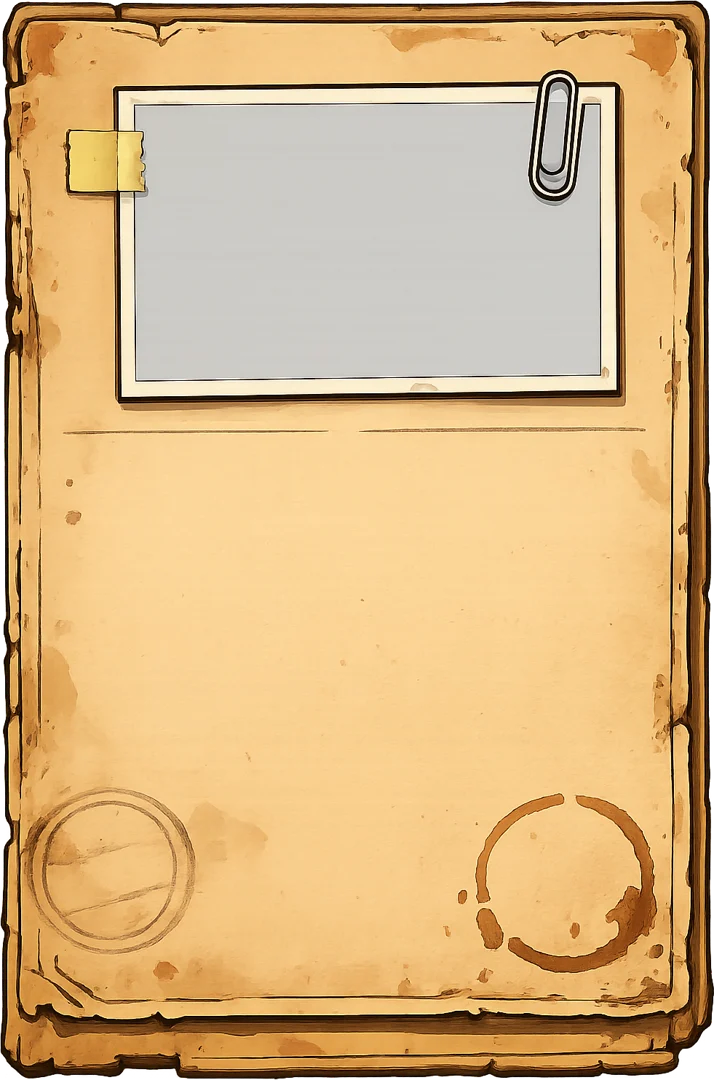
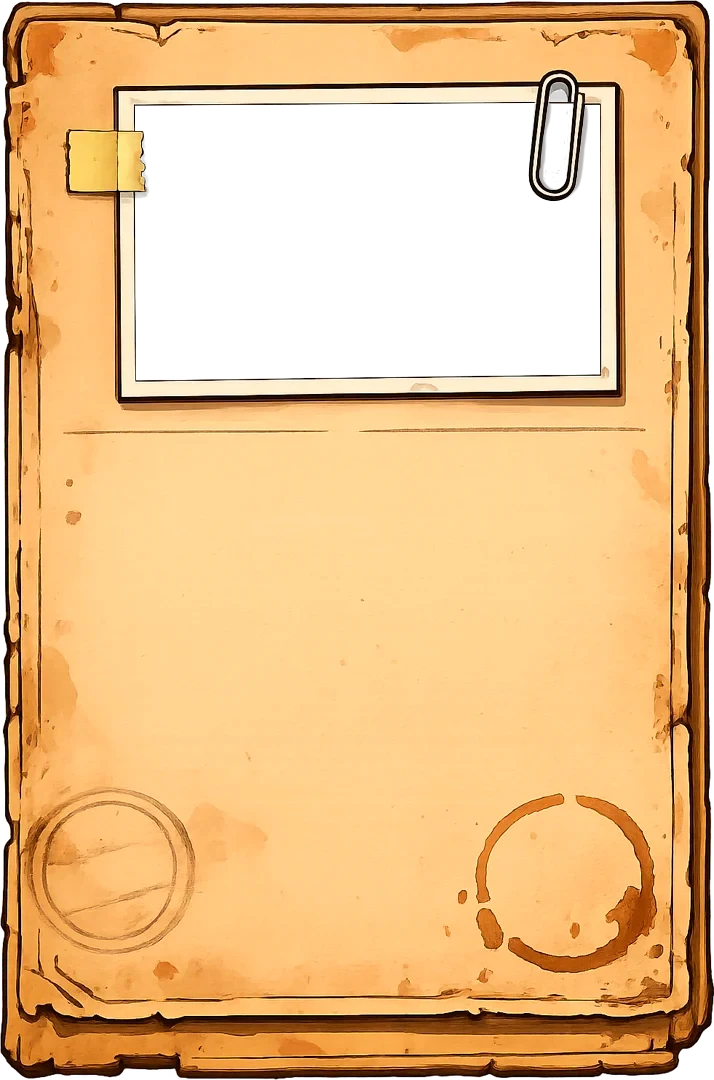
Захват: карточка художника с окном под фото — фото лежит под бумагой, скотч и скрепка держат его; подписи фото внизу; герб клана в центре круга
Claude-Session: https://claude.ai/code/session_01XtpZhZabEYUcJEQKQgYpHe

diff --git a/src/app/screens.css b/src/app/screens.css
@@ -5996,8 +5996,13 @@ html.eco .hs-page::after, html.eco .hs-page::before { animation: none; }
 .rd-card.in-r { animation: dos-in-r 0.28s ease-out; }
 .rd-card.in-l { animation: dos-in-l 0.28s ease-out; }
 @media (prefers-reduced-motion: reduce) { .rd-card.out-l, .rd-card.out-r, .rd-card.in-l, .rd-card.in-r { animation-duration: 0.01s; } }
-.rd-card-paper { position: absolute; inset: 0; width: 100%; height: 100%; filter: drop-shadow(0 10px 14px rgba(0, 0, 0, 0.55)); pointer-events: none; user-select: none; }
-.rd-photo { position: absolute; left: 20%; right: 17%; top: 10.6%; height: 23.4%; overflow: hidden; }
+/* the paper has a window cut for the photo: the photo lies UNDER the paper, so its frame, the tape and the paper clip hold it */
+.rd-card-paper { position: absolute; z-index: 1; inset: 0; width: 100%; height: 100%; filter: drop-shadow(0 10px 14px rgba(0, 0, 0, 0.55)); pointer-events: none; user-select: none; }
+.rd-photo { position: absolute; z-index: 0; left: 18.4%; right: 15.4%; top: 9%; height: 26.6%; overflow: hidden; }
+/* the tape (top left) and the clip (top right) lie over the photo's top: its labels sit at its bottom */
+.rd-photo > .rd-wins { top: auto; left: 9%; bottom: 10%; }
+.rd-photo > .rd-times { top: auto; right: 9%; bottom: 10%; }
+.rd-body, .rd-leader { z-index: 2; }
 .rd-photo > img { width: 100%; height: 100%; object-fit: cover; object-position: 50% 20%; filter: sepia(0.25) contrast(1.05); }
 .rd-photo > img.own { object-position: 50% 50%; filter: sepia(0.15) contrast(1.05) brightness(1.08); }
 .rd-wins { position: absolute; left: 6px; top: 6px; padding: 2px 8px; border-radius: 8px; background: rgba(0, 0, 0, 0.6); color: #fff; font-size: 12px; font-weight: 800; }
@@ -6010,7 +6015,7 @@ html.eco .hs-page::after, html.eco .hs-page::before { animation: none; }
 .rd-closed { margin-top: 6px; font-size: 12px; font-weight: 700; color: #8a2a1a; }
 .rd-h { margin-top: 14px; font-family: var(--font-hand), cursive; font-size: 18px; color: #1f3a8a; }
 /* the coffee stain in the lower left corner of the card: the logo of the clan with the most influence in the yard */
-.rd-leader { position: absolute; z-index: 1; left: 8%; top: 74%; width: 20%; aspect-ratio: 1; display: flex; flex-direction: column; align-items: center; justify-content: center; gap: 1px;
+.rd-leader { position: absolute; z-index: 2; left: 5.3%; top: 74%; width: 20%; aspect-ratio: 1; display: flex; flex-direction: column; align-items: center; justify-content: center; gap: 1px;
   pointer-events: auto; filter: drop-shadow(0 2px 2px rgba(0, 0, 0, 0.35)); }
 .rd-leader-n { font-size: 11px; font-weight: 400; letter-spacing: 1px; color: #3a2410; }
 .rd-rewards { display: flex; gap: 14px; flex-wrap: wrap; justify-content: center; font-size: 11px; font-weight: 700; color: #3a2a14; }

diff --git a/src/client/screens/raids.tsx b/src/client/screens/raids.tsx
@@ -113,11 +113,11 @@ export function RaidsScreen() {
         {/* the next yards' cards lie under the open one */}
         {[2, 1].map((k) => (
           // eslint-disable-next-line @next/next/no-img-element
-          <img key={k} className={`rd-under u${k}`} src={`${A}/card.webp`} alt="" draggable={false} aria-hidden="true" />
+          <img key={k} className={`rd-under u${k}`} src={`${A}/card.webp?v=2`} alt="" draggable={false} aria-hidden="true" />
         ))}
         <div className={`rd-card ${anim}`} key={y.id} style={moving}>
           {/* eslint-disable-next-line @next/next/no-img-element */}
-          <img className="rd-card-paper" src={`${A}/card.webp`} alt="" draggable={false} />
+          <img className="rd-card-paper" src={`${A}/card.webp?v=2`} alt="" draggable={false} />
           <div className="rd-photo">
             {/* the yard's own photo: its ground with its buildings (build-yard-art.py), or the old common one */}
             {/* eslint-disable-next-line @next/next/no-img-element */}
